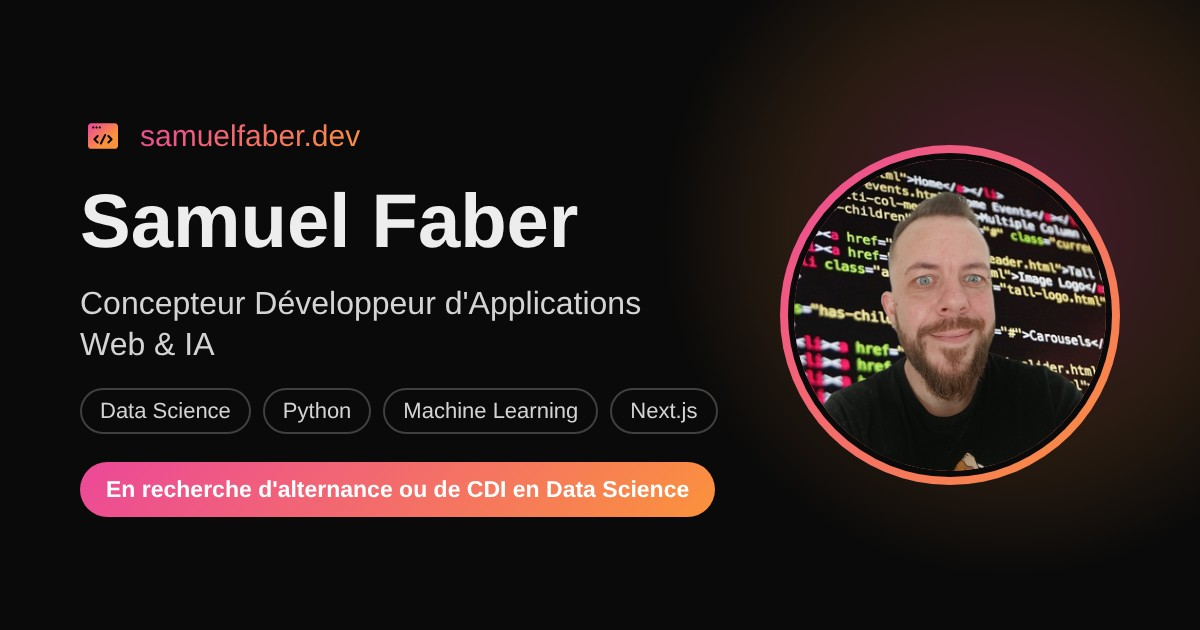
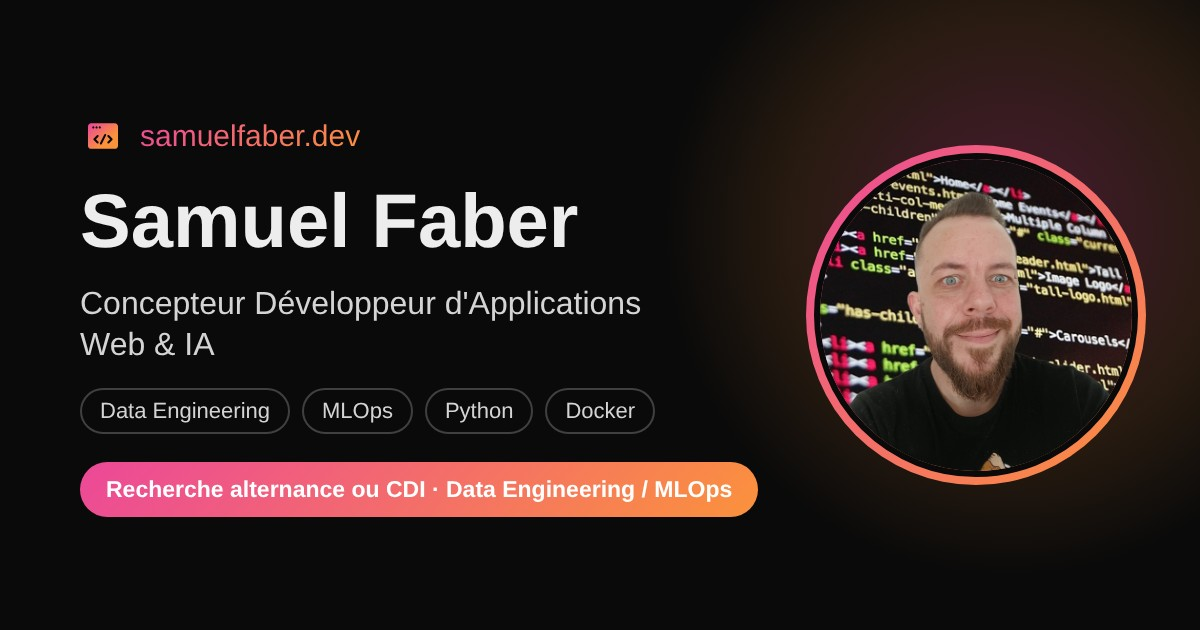
🎯 Cible précisée : Data Engineering ou MLOps
- Accroche et section Contact : « plus spécifiquement en Data Engineering ou en MLOps »
- Description du site et texte alternatif de l'image d'aperçu
- Image d'aperçu régénérée (mots-clés Data Engineering, MLOps, Python, Docker)

Claude-Session: https://claude.ai/code/session_01RvMs3vuMpp3o4TbdXfj8dP

Changed region(s): [[0.6475, 0.2111, 0.9558, 0.7841], [0.0925, 0.7238, 0.6475, 0.8444], [0.1233, 0.6032, 0.5858, 0.6937]]

diff --git a/app/layout.tsx b/app/layout.tsx
@@ -21,7 +21,7 @@ const geistMono = localFont({
 const SITE_URL = "https://samuelfaber.dev";
 const SITE_TITLE = "Samuel Faber · Développeur Web & Data Science";
 const SITE_DESCRIPTION =
-  "Portfolio de Samuel Faber, concepteur développeur d'applications web et IA : projets, parcours et contact. En recherche d'une alternance ou d'un CDI en Data Science, région nantaise.";
+  "Portfolio de Samuel Faber, concepteur développeur d'applications web et IA : projets, parcours et contact. En recherche d'une alternance ou d'un CDI en Data Engineering ou MLOps, région nantaise.";
 
 export const metadata: Metadata = {
   metadataBase: new URL(SITE_URL),
@@ -40,7 +40,7 @@ export const metadata: Metadata = {
         url: "/og-image.jpg",
         width: 1200,
         height: 630,
-        alt: "Samuel Faber, concepteur développeur d'applications web et IA, en recherche d'alternance ou de CDI en Data Science",
+        alt: "Samuel Faber, concepteur développeur d'applications web et IA, en recherche d'alternance ou de CDI en Data Engineering ou MLOps",
       },
     ],
   },

diff --git a/design/og-image.html b/design/og-image.html
@@ -29,8 +29,8 @@
       <div class="brand"><img src="../public/images/icone.svg" alt=""><span class="grad">samuelfaber.dev</span></div>
       <h1>Samuel Faber</h1>
       <p class="title">Concepteur Développeur d'Applications<br>Web &amp; IA</p>
-      <div class="tags"><span class="tag">Data Science</span><span class="tag">Python</span><span class="tag">Machine Learning</span><span class="tag">Next.js</span></div>
-      <div class="cta">En recherche d'alternance ou de CDI en Data Science</div>
+      <div class="tags"><span class="tag">Data Engineering</span><span class="tag">MLOps</span><span class="tag">Python</span><span class="tag">Docker</span></div>
+      <div class="cta">Recherche alternance ou CDI · Data Engineering / MLOps</div>
     </div>
     <div class="photo"><img src="../public/images/profil.jpg" alt=""></div>
   </div>

diff --git a/app/components/HeroSection.tsx b/app/components/HeroSection.tsx
@@ -18,9 +18,10 @@ export default function HeroSection() {
         </p>
         <p>
           Je recherche avant tout une <strong>alternance (niveau 7)</strong> ou
-          un <strong>CDI</strong> en <strong>Data Science</strong>, sur la
-          région nazairienne et nantaise, sur site, en hybride ou en
-          télétravail.
+          un <strong>CDI</strong> en <strong>Data Science</strong>, plus
+          spécifiquement en <strong>Data Engineering</strong> ou en{" "}
+          <strong>MLOps</strong>, sur la région nazairienne et nantaise, sur
+          site, en hybride ou en télétravail.
         </p>
       </article>
       <div className="flex flex-row flex-wrap lg:flex-col items-center justify-center gap-4 w-full lg:w-1/6">

diff --git a/app/components/ContactSection.tsx b/app/components/ContactSection.tsx
@@ -18,7 +18,8 @@ export default function ContactSection() {
         <ul className="flex flex-col gap-1">
           <li>
             💼 <strong>Disponible</strong> pour une alternance (niveau 7) ou un
-            CDI en Data Science
+            CDI en Data Science, plus spécifiquement en Data Engineering ou en
+            MLOps
           </li>
           <li>📍 Région nazairienne et nantaise</li>
           <li>🏠 Sur site, hybride ou en télétravail</li>
